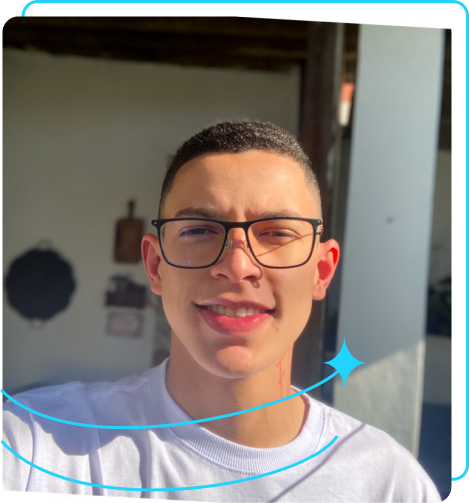
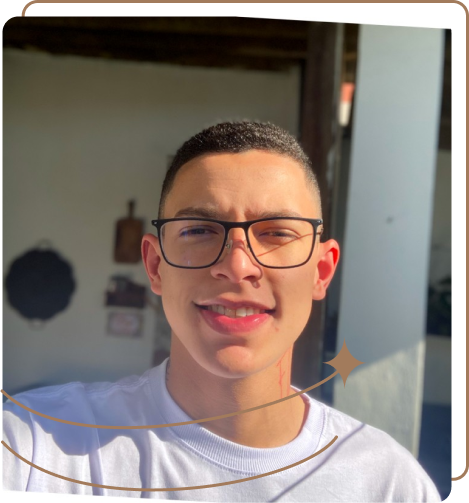
Alteration

diff --git a/styles/style.css b/styles/style.css
@@ -2,6 +2,16 @@
 @import url('https://fonts.googleapis.com/css2?family=Montserrat:wght@100&display=swap');
 @import url('https://fonts.googleapis.com/css2?family=Montserrat:wght@100;600&display=swap');
 
+:root{
+    --cor-primaria:#2C3639;
+    --cor-secundaria:#DCD7C9;
+    --cor-terciaria:#A27B5C;
+    --cor-hoover: #3F4E4F;
+
+    --fonte-primaria: 'Krona One', sans-serif;
+    --fonte-secundaria:'Montserrat', sans-serif;
+}
+
 *{
     margin: 0;
     padding: 0;
@@ -10,14 +20,32 @@
 
 body {
     box-sizing: border-box;
-    background-color:#000000;
-    color: #F6F6F6;
+    background-color: var(--cor-primaria);
+    color: var(--cor-secundaria);
     
 }
 
 .titulo-destaque {
-    color: #22D4FD;
+    color: var(--cor-terciaria);
 }
+.cabecalho{
+    padding: 2% 0% 0% 15%;
+
+}
+
+.cabecalho__menu{
+    display: flex;
+    gap: 80px;
+}
+
+.cabecalho__menu__link{
+    font-family: var(--fonte-primaria);
+    font-size: 24px;
+    font-weight: 600;
+    color:var(--cor-terciaria);
+    text-decoration: none;
+}
+
 
 .apresentacao {
     padding: 8% 15%;
@@ -36,12 +64,12 @@ body {
 
 .apresentacao__conteudo__titulo{
     font-size: 36px;
-    font-family: 'Krona One', sans-serif;
+    font-family: var(--fonte-primaria);
 }
 
 .apresentacao__conteudo__paragrafo{
     font-size: 24px;;
-    font-family: 'Montserrat', sans-serif;
+    font-family: var(--fonte-secundaria);
 }
 
 .apresentacao__links{
@@ -54,7 +82,7 @@ body {
 
 
 .apresentacao__links__texto{
-    font-family: 'Krona One', sans-serif;
+    font-family: var(--fonte-primaria);
     font-size: 24px;
     font-weight: 400;
 }
@@ -70,23 +98,23 @@ body {
     font-weight: 600;
     padding: 21.5px 0;
     text-decoration: none;
-    color: #F6F6F6;
-    font-family: 'Montserrat', sans-serif;
-    border: 2px solid #22D4FD;
+    color: var(--cor-secundaria);
+    font-family: var(--fonte-secundaria);
+    border: 2px solid var(--cor-terciaria);
     border-radius: 8px;
 }
 
 
 .apresentacao__links__link:hover {
-    background-color: #272727;
+    background-color: var(--cor-hoover);
 }
 
 .rodape {
     padding: 24px;
-    color: #000000;
-    background-color: #22D4FD;
+    color: var(--cor-primaria);
+    background-color: var(--cor-terciaria);
     text-align: center;
-    font-family: 'Montserrat', sans-serif;
+    font-family: var(--fonte-secundaria);
     font-size: 24px;
-    font-weight: 400;
+    font-weight: 504;
 }

diff --git a/about.html b/about.html
@@ -1,0 +1,31 @@
+<!DOCTYPE html>
+<html lang="pt-br">
+<head>
+    <meta charset="UTF-8">
+    <meta http-equiv="X-UA-Compatible" content="IE=edge">
+    <meta name="viewport" content="width=device-width, initial-scale=1.0">
+    <link rel="stylesheet" href="styles/style.css">
+    <title>Sobre mim</title>
+</head>
+<body>
+    <header class="cabecalho">
+        <nav class="cabecalho__menu">
+          <a class="cabecalho__menu__link" href="index.html">Home</a>
+          <a class="cabecalho__menu__link" href="about.html">Sobre mim</a>
+        </nav>
+    </header>
+    <main class="apresentacao">
+        <section class="apresentacao__conteudo">
+            <h1 class="apresentacao__conteudo__titulo">Sobre mim</h1>
+            <p class="apresentacao__conteudo__paragrafo">Meu nome é Humberto Martins e atualmente estou cursando Análise e Desenvolvimento de Sistemas. Sou apaixonado por programação e estou sempre em busca de novos desafios e oportunidades para aprender e crescer nessa área. Tenho conhecimento em algumas linguagens, como HTML, CSS, JavaScript e um pouco de Python voltado para automação. Estou sempre buscando aprimorar minhas habilidades e conhecimentos técnicos, participando de projetos e cursos que me permitam desenvolver minhas competências e contribuir para a criação de soluções criativas e eficientes.</p>
+            <p class="apresentacao__conteudo__paragrafo">Além do meu interesse pela programação, tenho uma paixão pela resolução de problemas e pelo trabalho em equipe. Acredito que a colaboração e a comunicação são fundamentais para o sucesso em projetos de desenvolvimento de software. Estou sempre disposto a compartilhar meu conhecimento com outras pessoas e aprender com meus colegas de equipe. Meu objetivo é me tornar um desenvolvedor altamente qualificado e fazer uma contribuição significativa para a indústria de tecnologia, trabalhando em projetos desafiadores e inovadores.</p>
+        </section>
+        <img src="/assets/Imagem.png" alt="Eu">
+
+    </main>
+
+    <footer class="rodape">
+        <P>Desenvolvido por Humberto martins</P>
+      </footer>
+</body>
+</html>

diff --git a/index.html b/index.html
@@ -4,10 +4,16 @@
     <meta charset="UTF-8">
     <meta http-equiv="X-UA-Compatible" content="IE=edge">
     <meta name="viewport" content="width=device-width, initial-scale=1.0">
-    <link rel="stylesheet" href="style.css">
+    <link rel="stylesheet" href="/styles/style.css">
     <title>Document</title>
 </head>
 <body>
+  <header class="cabecalho">
+      <nav class="cabecalho__menu">
+        <a class="cabecalho__menu__link" href="index.html">Home</a>
+        <a class="cabecalho__menu__link" href="about.html">Sobre mim</a>
+      </nav>
+  </header>
     <main class="apresentacao">
         <section class="apresentacao__conteudo" >
             <h1 class="apresentacao__conteudo__titulo">Eleve seu negócio digital a outro nível <strong class="titulo-destaque"> com um Front-end de qualidade!</strong></h1>
